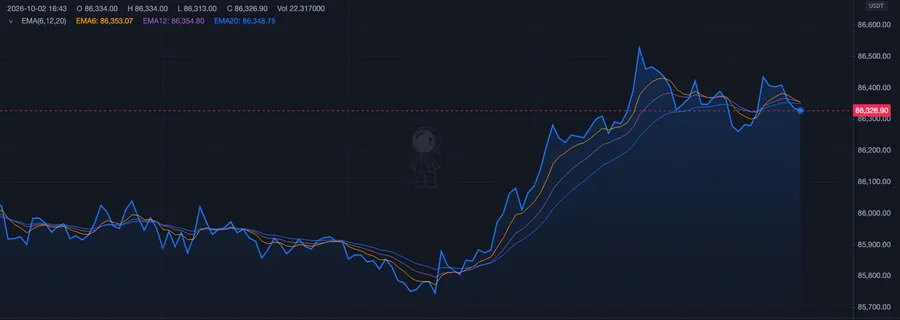
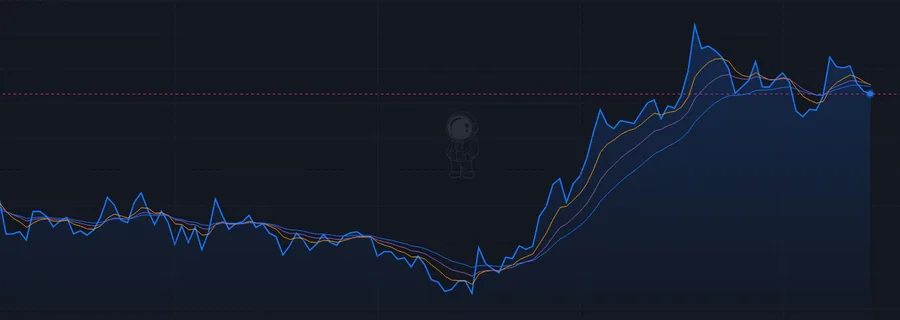
Recrop the gallery thumbnails and lay the resources out 3 by 2
The thumbnails showed the whole chart pane with a price axis nobody could
read; crop to the plot area so candles, bricks and lines are bigger. The
resources grid left its sixth card alone on a second row; use three columns
(two on tablets, one on phones).

diff --git a/demo/src/app/landing.css b/demo/src/app/landing.css
@@ -342,7 +342,7 @@
 /* ── resources + footer ──────────────────────────────────────────────── */
 
 .lp-links {
-  grid-template-columns: repeat(auto-fit, minmax(200px, 1fr));
+  grid-template-columns: repeat(3, minmax(0, 1fr));
 }
 
 .lp-link {
@@ -381,6 +381,10 @@
 /* ── small screens ───────────────────────────────────────────────────── */
 
 @media (max-width: 860px) {
+  .lp-links {
+    grid-template-columns: repeat(2, minmax(0, 1fr));
+  }
+
   .lp-hero {
     grid-template-columns: minmax(0, 1fr);
     gap: 28px;
@@ -393,6 +397,12 @@
 
   .lp-nav nav {
     gap: 4px 14px;
+  }
+}
+
+@media (max-width: 480px) {
+  .lp-links {
+    grid-template-columns: minmax(0, 1fr);
   }
 }
 
